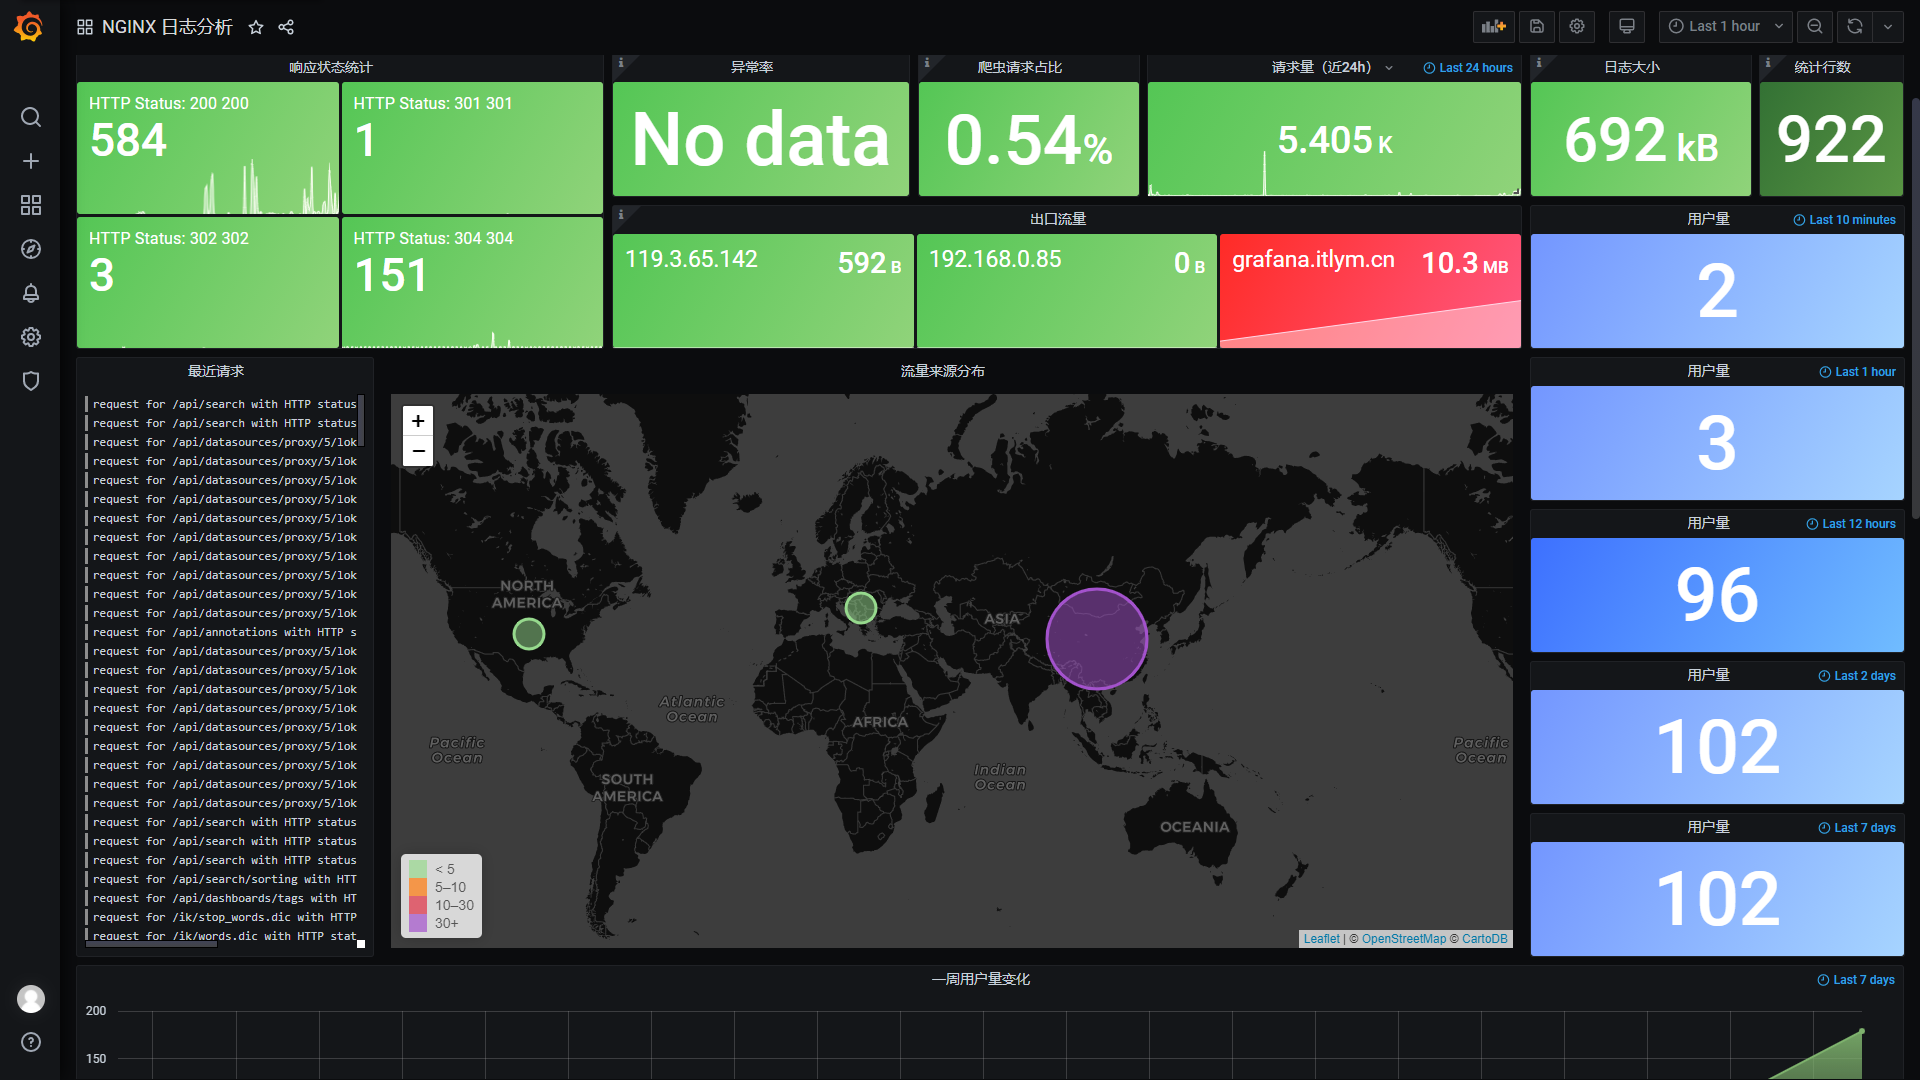
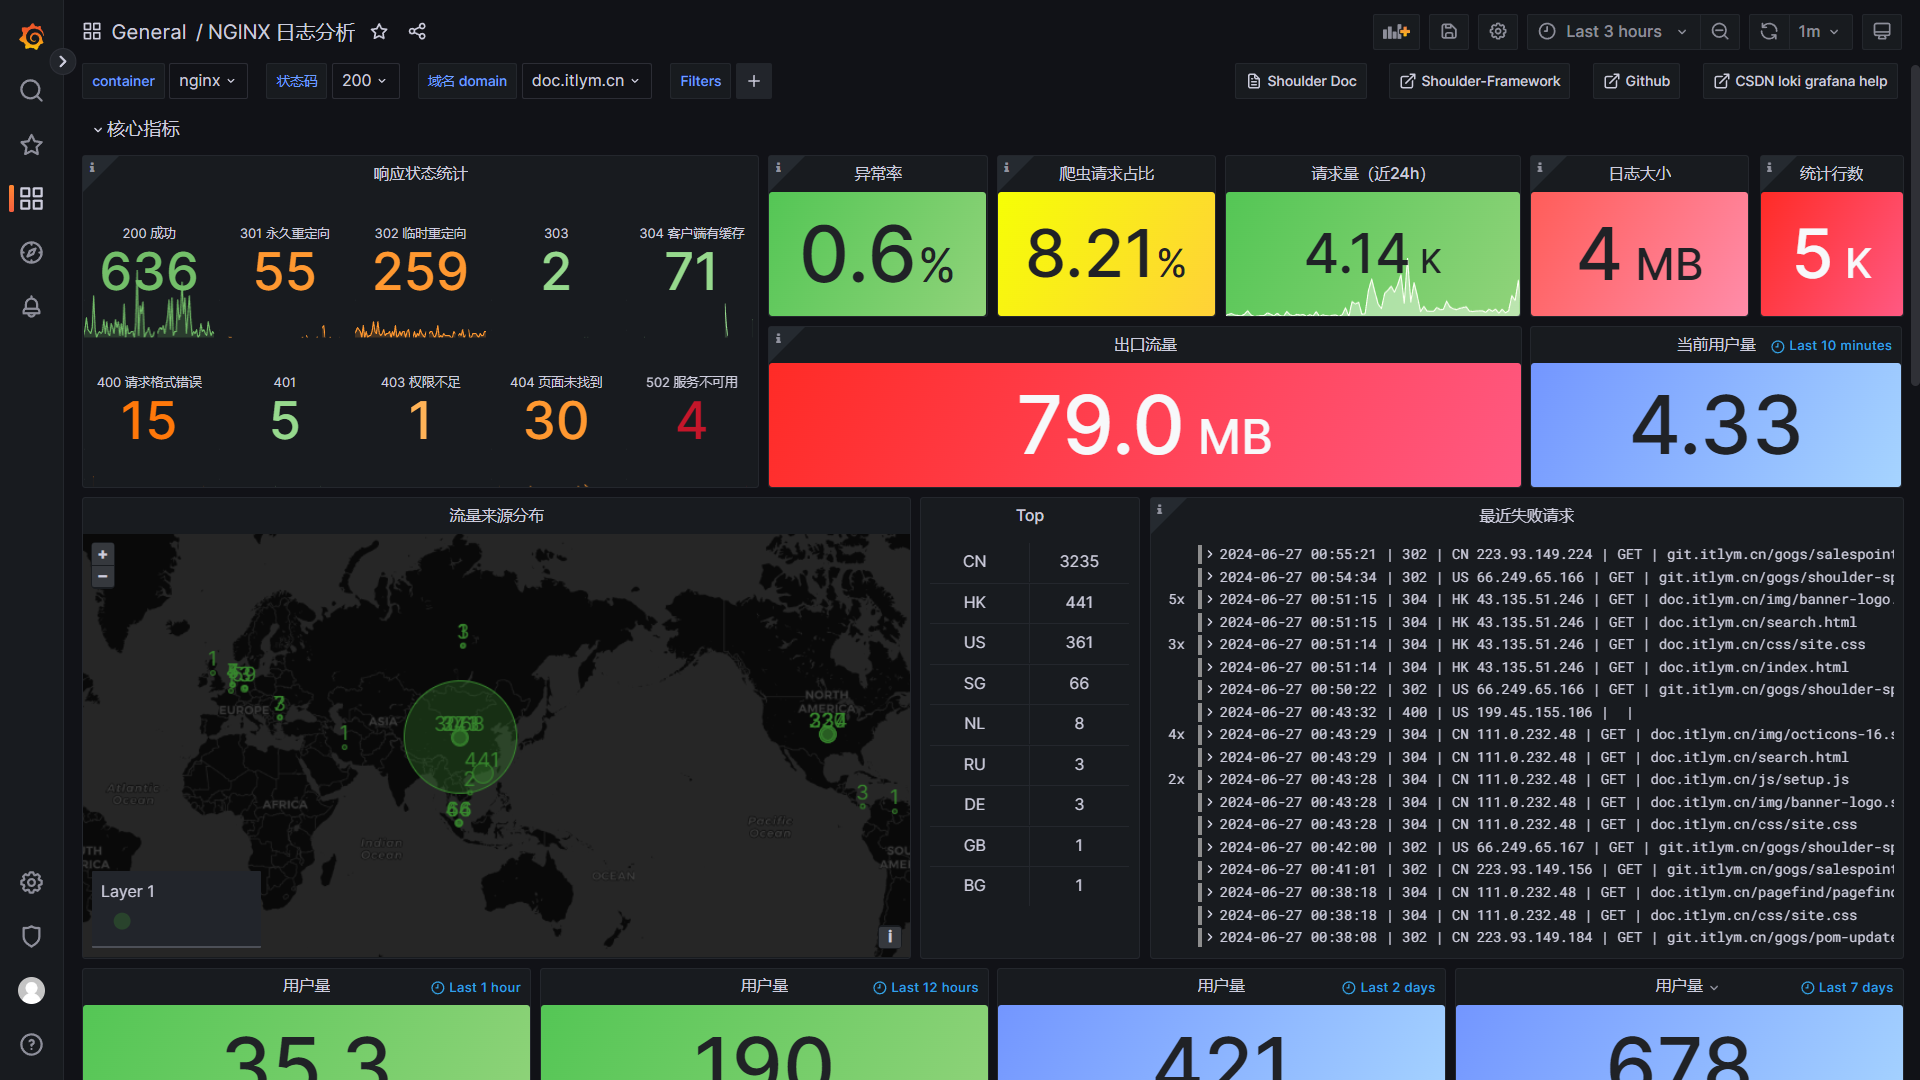
update monitor png

diff --git a/README.md b/README.md
@@ -61,6 +61,8 @@
 
 ![监控 nginx2](img/nginx2.png)
 
+![监控 nginx3](img/nginx3.png)
+
 ![监控redis](img/redis.png)
 
 ![nacos1](img/nacos1.png)
